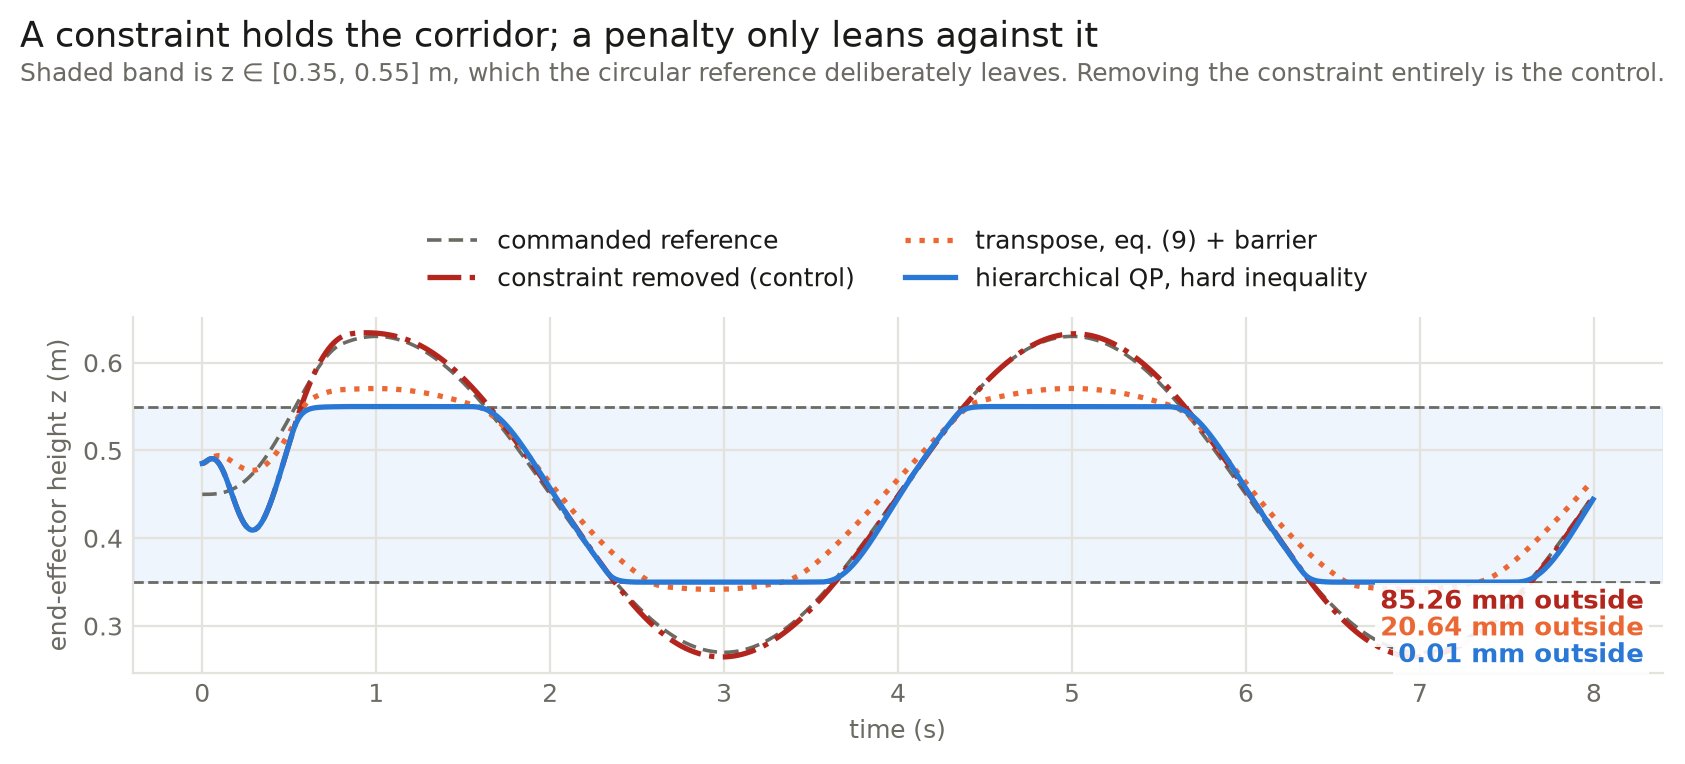
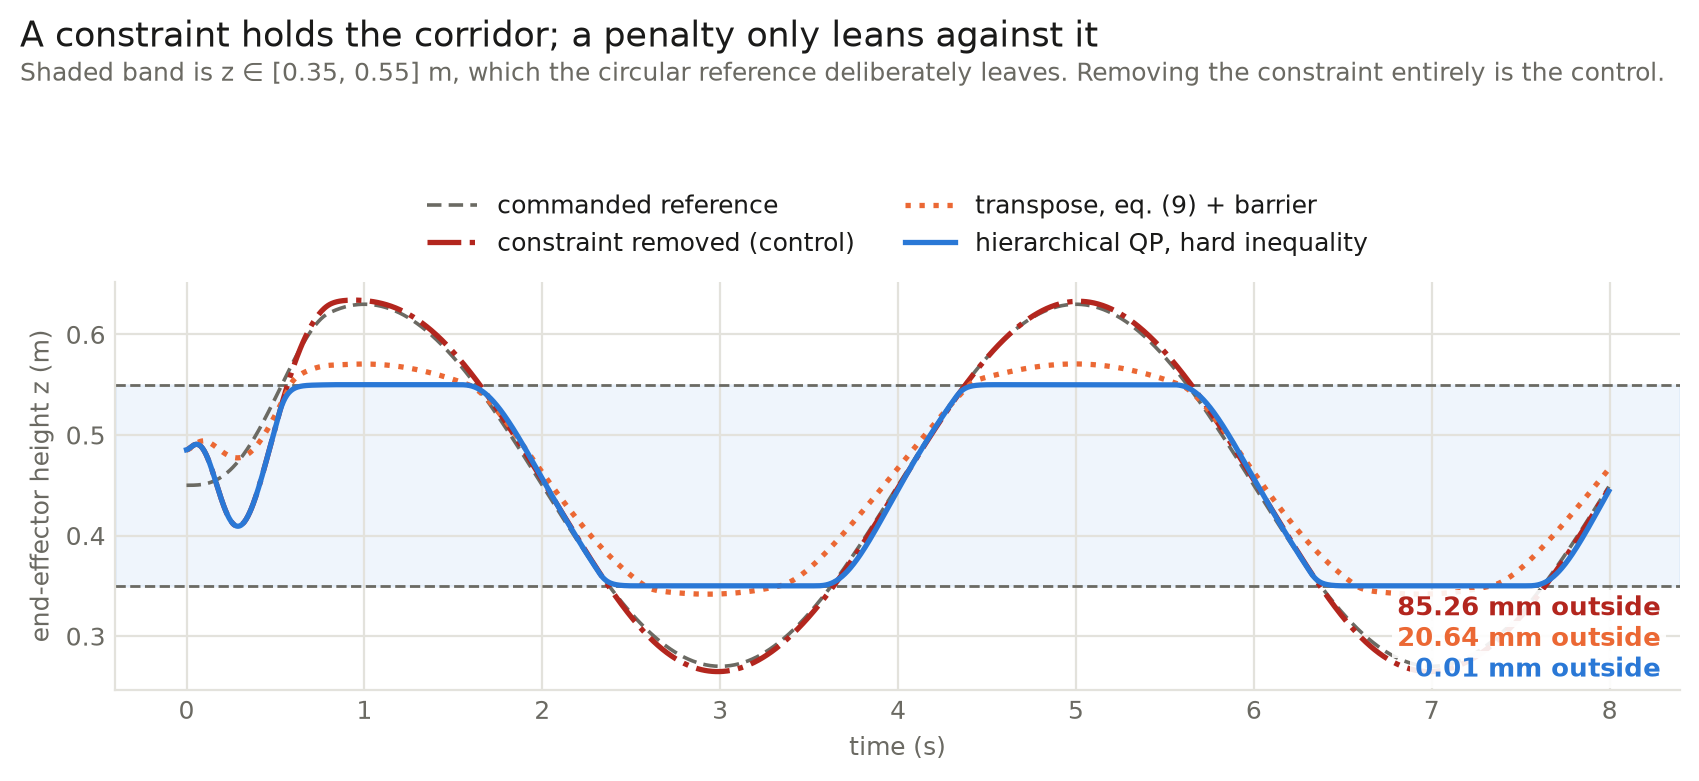
fix: undefined name crashed the figure generator

Changed region(s): [[0.0, 0.2408, 0.9875, 0.9935], [0.0, 0.0301, 0.9875, 0.1204], [0.2469, 0.2408, 0.4629, 0.2709]]

diff --git a/scripts/make_report_figures.py b/scripts/make_report_figures.py
@@ -14,8 +14,9 @@ import pathlib
 import sys
 from typing import Dict
 
-import numpy as np
 import matplotlib
+import numpy as np
+
 matplotlib.use("Agg")
 import matplotlib.pyplot as plt
 
@@ -23,7 +24,7 @@ import matplotlib.pyplot as plt
 # frame, conclusion as the title, setup as a subtitle, and steady-state values labelled directly
 # on the traces. Reuse its palette rather than re-deriving one.
 sys.path.insert(0, str(pathlib.Path(__file__).resolve().parent))
-from plot_results import INK, INK_MUTED, GRID, _style  # noqa: E402
+from plot_results import GRID, INK, INK_MUTED, _style  # noqa: E402
 
 # IEEE conference single column is 3.5 in; keep type at ~8 pt after placement.
 COL_W = 3.5
@@ -40,10 +41,10 @@ plt.rcParams.update({
 
 # Ordered worst-to-best so the proposed method draws on top.
 CONTROLLERS = [
-    ("classical_transpose", "Transpose, eq. (9)", "#c44e52", "-."),
-    ("saturated_algebraic", "Null-space, eq. (10)", "#8172b2", ":"),
+    ("classical_transpose", "Transpose",          "#c44e52", "-."),
+    ("saturated_algebraic", "Null-space",          "#8172b2", ":"),
     ("weighted_qp",         "Weighted-sum QP",     "#ccb974", "--"),
-    ("hierarchical_qp",     "Proposed, eq. (18)",  "#4c72b0", "-"),
+    ("hierarchical_qp",     "Proposed cascade",    "#4c72b0", "-"),
 ]
 
 AXIS_INDEX = {"x": 0, "y": 1, "z": 2}
@@ -104,9 +105,9 @@ def figure_primary_task(data: Dict[str, np.ndarray], out: pathlib.Path, p0_axis:
         for v, color in (min(finals), max(finals)):
             _label_last(ax, data["hierarchical_qp_time"][-1], v, color, dy=4)
         _headline(fig,
-                  "Tracking barely separates the controllers \u2014 feasibility is what does",
-                  "Highest-priority axis against a reference outside the workspace. All four stall "
-                  "short of it; the difference that matters is in the torque figure, not this one.")
+                      "Tracking barely separates the controllers \u2014 feasibility is what does",
+                      "Highest-priority axis against a reference outside the workspace. All four stall "
+                      "short of it; the difference that matters is in the torque figure, not this one.")
 
     ax.set_xlabel("Time [s]")
     ax.set_ylabel(f"{p0_axis} position [m]")
@@ -137,7 +138,7 @@ def figure_torque_bounds(data: Dict[str, np.ndarray], out: pathlib.Path,
     rolling maximum over `window` steps, which is what makes the envelope legible through the
     chattering.
     """
-    fig, ax = plt.subplots(figsize=(8.4, 3.6) if headline else (COL_W, 2.30))
+    fig, ax = plt.subplots(figsize=(8.4, 3.6) if headline else (COL_W, 2.00))
 
     for key, label, color, style in CONTROLLERS:
         tau = np.abs(data[f"{key}_torques"])
@@ -152,7 +153,8 @@ def figure_torque_bounds(data: Dict[str, np.ndarray], out: pathlib.Path,
         ax.plot(t, env, color=color, ls=style, label=label, lw=2.0, zorder=3)
 
     ax.axhline(1.0, color=INK_MUTED, lw=1.0, ls="--", zorder=1)
-    ax.text(0.99, 1.0, " torque limit", ha="right", va="bottom", fontsize=6.5,
+    ax.text(0.99, 1.0, " torque limit", ha="right", va="bottom",
+            fontsize=9 if headline else 7.2,
             transform=ax.get_yaxis_transform())
     lo, hi = ax.get_ylim()
     if hi > 1.0:
@@ -161,22 +163,24 @@ def figure_torque_bounds(data: Dict[str, np.ndarray], out: pathlib.Path,
 
     if headline:
         _headline(fig,
-                  "Only the QP rides the torque limit without crossing it",
-                  "Worst-joint utilisation max|\u03c4|/\u03c4_max: 1.0 is the bound and the shaded "
-                  "band is infeasible. Bold lines are a rolling maximum of the faint per-step signal.")
+                      "Only the QP rides the torque limit without crossing it",
+                      "Worst-joint utilisation max|\u03c4|/\u03c4_max: 1.0 is the bound and the shaded "
+                      "band is infeasible. Bold lines are a rolling maximum of the faint per-step signal.")
 
     ax.set_xlabel("Time [s]")
     ax.set_ylabel(r"$\max_j |\tau_j| / \tau_{\max,j}$")
     ax.grid(alpha=0.3, lw=0.4)
-    ax.legend(loc="lower center", bbox_to_anchor=(0.5, 1.01), ncol=2,
-              frameon=False, columnspacing=1.1, handlelength=1.9)
+    ax.legend(loc="lower center", bbox_to_anchor=(0.5, 1.0), ncol=2,
+              frameon=False, columnspacing=1.0, handlelength=1.7,
+              fontsize=9 if headline else 7.4, handletextpad=0.5)
     fig.tight_layout(rect=(0, 0, 1, 0.86) if headline else None, pad=0.3)
     fig.savefig(out, bbox_inches="tight")
     plt.close(fig)
     print(f"wrote {out}")
 
 
-def figure_priority_residual(data: Dict[str, np.ndarray], out: pathlib.Path) -> None:
+def figure_priority_residual(data: Dict[str, np.ndarray], out: pathlib.Path,
+                             headline: bool = True) -> None:
     """
     Priority residual over time for the cascade against a weighted-sum QP.
 
@@ -187,7 +191,7 @@ def figure_priority_residual(data: Dict[str, np.ndarray], out: pathlib.Path) -> 
         ("weighted_qp", "single-level weighted-sum QP", "#eb6834"),
         ("hierarchical_qp", "proposed hierarchical cascade, eq. (18)", "#2a78d6"),
     ]
-    fig, ax = plt.subplots(figsize=(8.4, 3.6))
+    fig, ax = plt.subplots(figsize=(8.4, 3.6) if headline else (COL_W, 2.45))
     for key, label, color in series:
         r = np.abs(data[f"{key}_priority_residuals"])
         if r.ndim == 2 and r.shape[1] > 0:
@@ -203,17 +207,19 @@ def figure_priority_residual(data: Dict[str, np.ndarray], out: pathlib.Path) -> 
     ax.set_xlabel("time (s)", color=INK_MUTED, fontsize=9)
     ax.set_ylabel(r"$\max_k\ \|J_k B^{-1}(\tau-\tau_k^*)\|$", color=INK_MUTED, fontsize=9)
     ax.legend(loc="center right", frameon=False, fontsize=9, labelcolor=INK)
-    _headline(fig,
-              "A hierarchy enforces priority exactly; a weighting only approximates it",
-              "Same tasks, same solver, same scenario \u2014 only the formulation differs. "
-              "Logarithmic axis: the two are eleven orders of magnitude apart.")
-    fig.tight_layout(rect=(0, 0, 1, 0.93))
+    if headline:
+        _headline(fig,
+                  "A hierarchy enforces priority exactly; a weighting only approximates it",
+                  "Same tasks, same solver, same scenario \u2014 only the formulation differs. "
+                  "Logarithmic axis: the two are eleven orders of magnitude apart.")
+    fig.tight_layout(rect=(0, 0, 1, 0.93) if headline else None, pad=0.3)
     fig.savefig(out, dpi=200, bbox_inches="tight", facecolor="white")
     plt.close(fig)
     print(f"wrote {out}")
 
 
-def figure_corridor(out: pathlib.Path, results_dir: str = "results") -> None:
+def figure_corridor(out: pathlib.Path, results_dir: str = "results",
+                    headline: bool = True) -> None:
     """
     End-effector height against the commanded corridor.
 
@@ -225,7 +231,7 @@ def figure_corridor(out: pathlib.Path, results_dir: str = "results") -> None:
         ("fig_corridor_barrier.npz", "transpose, eq. (9) + barrier", "#eb6834", ":"),
         ("fig_corridor_qp.npz",      "hierarchical QP, hard inequality", "#2a78d6", "-"),
     ]
-    fig, ax = plt.subplots(figsize=(8.4, 3.6))
+    fig, ax = plt.subplots(figsize=(8.4, 3.6) if headline else (COL_W, 2.45))
     zmin = zmax = None
     excursions = []
     for fname, label, color, style in runs:
@@ -255,11 +261,12 @@ def figure_corridor(out: pathlib.Path, results_dir: str = "results") -> None:
     ax.set_ylabel("end-effector height z (m)", color=INK_MUTED, fontsize=9)
     ax.legend(loc="lower center", bbox_to_anchor=(0.5, 1.005), ncols=2, frameon=False,
               fontsize=9, labelcolor=INK)
-    _headline(fig,
-              "A constraint holds the corridor; a penalty only leans against it",
-              "Shaded band is z \u2208 [0.35, 0.55] m, which the circular reference deliberately "
-              "leaves. Removing the constraint entirely is the control.")
-    fig.tight_layout(rect=(0, 0, 1, 0.88))
+    if headline:
+        _headline(fig,
+                  "A constraint holds the corridor; a penalty only leans against it",
+                  "Shaded band is z \u2208 [0.35, 0.55] m, which the circular reference deliberately "
+                  "leaves. Removing the constraint entirely is the control.")
+    fig.tight_layout(rect=(0, 0, 1, 0.88) if headline else None, pad=0.3)
     fig.savefig(out, dpi=200, bbox_inches="tight", facecolor="white")
     plt.close(fig)
     print(f"wrote {out}")
@@ -267,7 +274,7 @@ def figure_corridor(out: pathlib.Path, results_dir: str = "results") -> None:
 
 def figure_blocked_circle(out: pathlib.Path,
                           npz: str = "results/fig_blocked_circle.npz",
-                          window: int = 25) -> None:
+                          window: int = 25, headline: bool = True) -> None:
     """
     Blocked deflection against the contact force it produces.
 
@@ -304,7 +311,8 @@ def figure_blocked_circle(out: pathlib.Path,
     engaged = d["ee_pos_des"][:, 0] > x_block
 
     c_dx, c_f = "#2a78d6", "#eb6834"
-    fig, ax = plt.subplots(figsize=(8.4, 3.6))
+    fs = 9 if headline else 7.4
+    fig, ax = plt.subplots(figsize=(8.4, 3.6) if headline else (COL_W, 1.85))
     edges = np.diff(np.concatenate(([0], engaged.astype(int), [0])))
     starts, ends = np.where(edges == 1)[0], np.where(edges == -1)[0]
     for i, (a, b) in enumerate(zip(starts, ends)):
@@ -312,31 +320,37 @@ def figure_blocked_circle(out: pathlib.Path,
                    label="reference commands past the obstacle" if i == 0 else None)
     ax.plot(t, dx, color=c_dx, linewidth=1.9, zorder=3, label="blocked deflection $\\Delta x$")
     ax.set_xlabel("time (s)", color=INK_MUTED, fontsize=9)
-    ax.set_ylabel("deflection $\\Delta x$ (mm)", color=c_dx, fontsize=9)
-    ax.tick_params(axis="y", colors=c_dx)
+    ax.set_ylabel("deflection $\\Delta x$ (mm)", color=c_dx, fontsize=fs)
     _style(ax)
+    ax.tick_params(axis="y", colors=c_dx, labelsize=fs, length=0)
+    ax.tick_params(axis="x", labelsize=fs, length=0)
 
     ax2 = ax.twinx()
     ax2.plot(t, fx_s, color=c_f, linewidth=1.9, linestyle="--", zorder=3,
              label="contact force $|F_x|$")
-    ax2.set_ylabel("contact force $|F_x|$ (N)", color=c_f, fontsize=9)
-    ax2.tick_params(axis="y", colors=c_f, labelsize=9, length=0)
+    ax2.set_ylabel("contact force $|F_x|$ (N)", color=c_f, fontsize=fs)
+    ax2.tick_params(axis="y", colors=c_f, labelsize=fs, length=0)
     for side in ("top", "left", "bottom"):
         ax2.spines[side].set_visible(False)
     ax2.spines["right"].set_color(GRID)
 
+    blocked_lbl = ("reference commands past the obstacle" if headline
+                   else "commanded past obstacle")
     handles = [plt.Line2D([], [], color=c_dx, lw=1.9, label="blocked deflection $\\Delta x$"),
                plt.Line2D([], [], color=c_f, lw=1.9, ls="--", label="contact force $|F_x|$"),
-               plt.Rectangle((0, 0), 1, 1, color=INK_MUTED, alpha=0.18,
-                             label="reference commands past the obstacle")]
-    ax.legend(handles=handles, loc="upper center", ncols=3, frameon=False,
-              fontsize=9, labelcolor=INK, bbox_to_anchor=(0.5, 1.02))
-    _headline(fig,
-              "The force follows the deflection: the arm renders the spring it was commanded",
-              f"Shaded: the reference commands past the obstacle face. The arm has no model "
-              f"of it and no avoidance term \u2014 it is blocked, not evading. "
-              f"Correlation {r:.2f}; force is a {window}-step moving average.")
-    fig.tight_layout(rect=(0, 0, 1, 0.90))
+               plt.Rectangle((0, 0), 1, 1, color=INK_MUTED, alpha=0.18, label=blocked_lbl)]
+    # loc must be "lower center" so the box sits ABOVE the axes; "upper center" anchors the
+    # legend's own top edge and hangs it down over the data.
+    ax.legend(handles=handles, loc="lower center", ncols=3 if headline else 2,
+              frameon=False, fontsize=fs, labelcolor=INK,
+              bbox_to_anchor=(0.5, 1.0), columnspacing=1.0, handletextpad=0.5)
+    if headline:
+        _headline(fig,
+                  "The force follows the deflection: the arm renders the spring it was commanded",
+                  f"Shaded: the reference commands past the obstacle face. The arm has no model "
+                  f"of it and no avoidance term \u2014 it is blocked, not evading. "
+                  f"Correlation {r:.2f}; force is a {window}-step moving average.")
+    fig.tight_layout(rect=(0, 0, 1, 0.90) if headline else None, pad=0.3)
     fig.savefig(out, dpi=200, bbox_inches="tight", facecolor="white")
     plt.close(fig)
     print(f"wrote {out}")
@@ -344,7 +358,7 @@ def figure_blocked_circle(out: pathlib.Path,
 
 def figure_singularity(out: pathlib.Path,
                        npz: str = "results/fig_singularity.npz",
-                       sigma_near: float = 1e-2) -> None:
+                       sigma_near: float = 1e-2, headline: bool = True) -> None:
     """
     Jacobian conditioning against torque utilisation as the arm extends toward a singularity.
 
@@ -362,7 +376,7 @@ def figure_singularity(out: pathlib.Path,
     near = sm < sigma_near
 
     c_s, c_u = "#2a78d6", "#eb6834"
-    fig, ax = plt.subplots(figsize=(8.4, 3.6))
+    fig, ax = plt.subplots(figsize=(8.4, 3.6) if headline else (COL_W, 2.45))
     edges = np.diff(np.concatenate(([0], near.astype(int), [0])))
     for i, (a, b) in enumerate(zip(np.where(edges == 1)[0], np.where(edges == -1)[0])):
         ax.axvspan(t[a], t[min(b, len(t) - 1)], color=INK_MUTED, alpha=0.12, zorder=0)
@@ -391,14 +405,15 @@ def figure_singularity(out: pathlib.Path,
     handles = [plt.Line2D([], [], color=c_s, lw=1.9, label=r"$\sigma_{\min}(J)$"),
                plt.Line2D([], [], color=c_u, lw=1.9, ls="--", label="torque utilisation"),
                plt.Rectangle((0, 0), 1, 1, color=INK_MUTED, alpha=0.2,
-                             label=fr"near-singular ($\sigma_{{\min}}<10^{{-2}}$)")]
+                             label=r"near-singular ($\sigma_{\min}<10^{-2}$)")]
     ax.legend(handles=handles, loc="lower center", bbox_to_anchor=(0.5, 1.005), ncols=3,
               frameon=False, fontsize=9, labelcolor=INK)
-    _headline(fig,
-              "The torque bounds hold as the arm drives into a near-singular configuration",
-              f"\u03c3_min falls to {sm.min():.0e} and utilisation touches 1.0 without crossing it. "
-              f"Only the QP is shown: the classical laws do not fail here.")
-    fig.tight_layout(rect=(0, 0, 1, 0.86))
+    if headline:
+        _headline(fig,
+                  "The torque bounds hold as the arm drives into a near-singular configuration",
+                  f"\u03c3_min falls to {sm.min():.0e} and utilisation touches 1.0 without crossing it. "
+                  f"Only the QP is shown: the classical laws do not fail here.")
+    fig.tight_layout(rect=(0, 0, 1, 0.86) if headline else None, pad=0.3)
     fig.savefig(out, dpi=200, bbox_inches="tight", facecolor="white")
     plt.close(fig)
     print(f"wrote {out}")
@@ -421,6 +436,10 @@ def main() -> None:
 
     figure_primary_task(data, out_dir / "fig_primary_task.png", p0_axis)
     figure_torque_bounds(data, out_dir / "fig_torque_bounds.png")
+    figure_priority_residual(data, out_dir / "priority_residual.png", headline=False)
+    figure_corridor(out_dir / "corridor_height.png", headline=False)
+    figure_blocked_circle(out_dir / "blocked_circle_force.png", headline=False)
+    figure_singularity(out_dir / "singularity.png", headline=False)
 
     if args.readme:
         media = pathlib.Path("docs/media")
